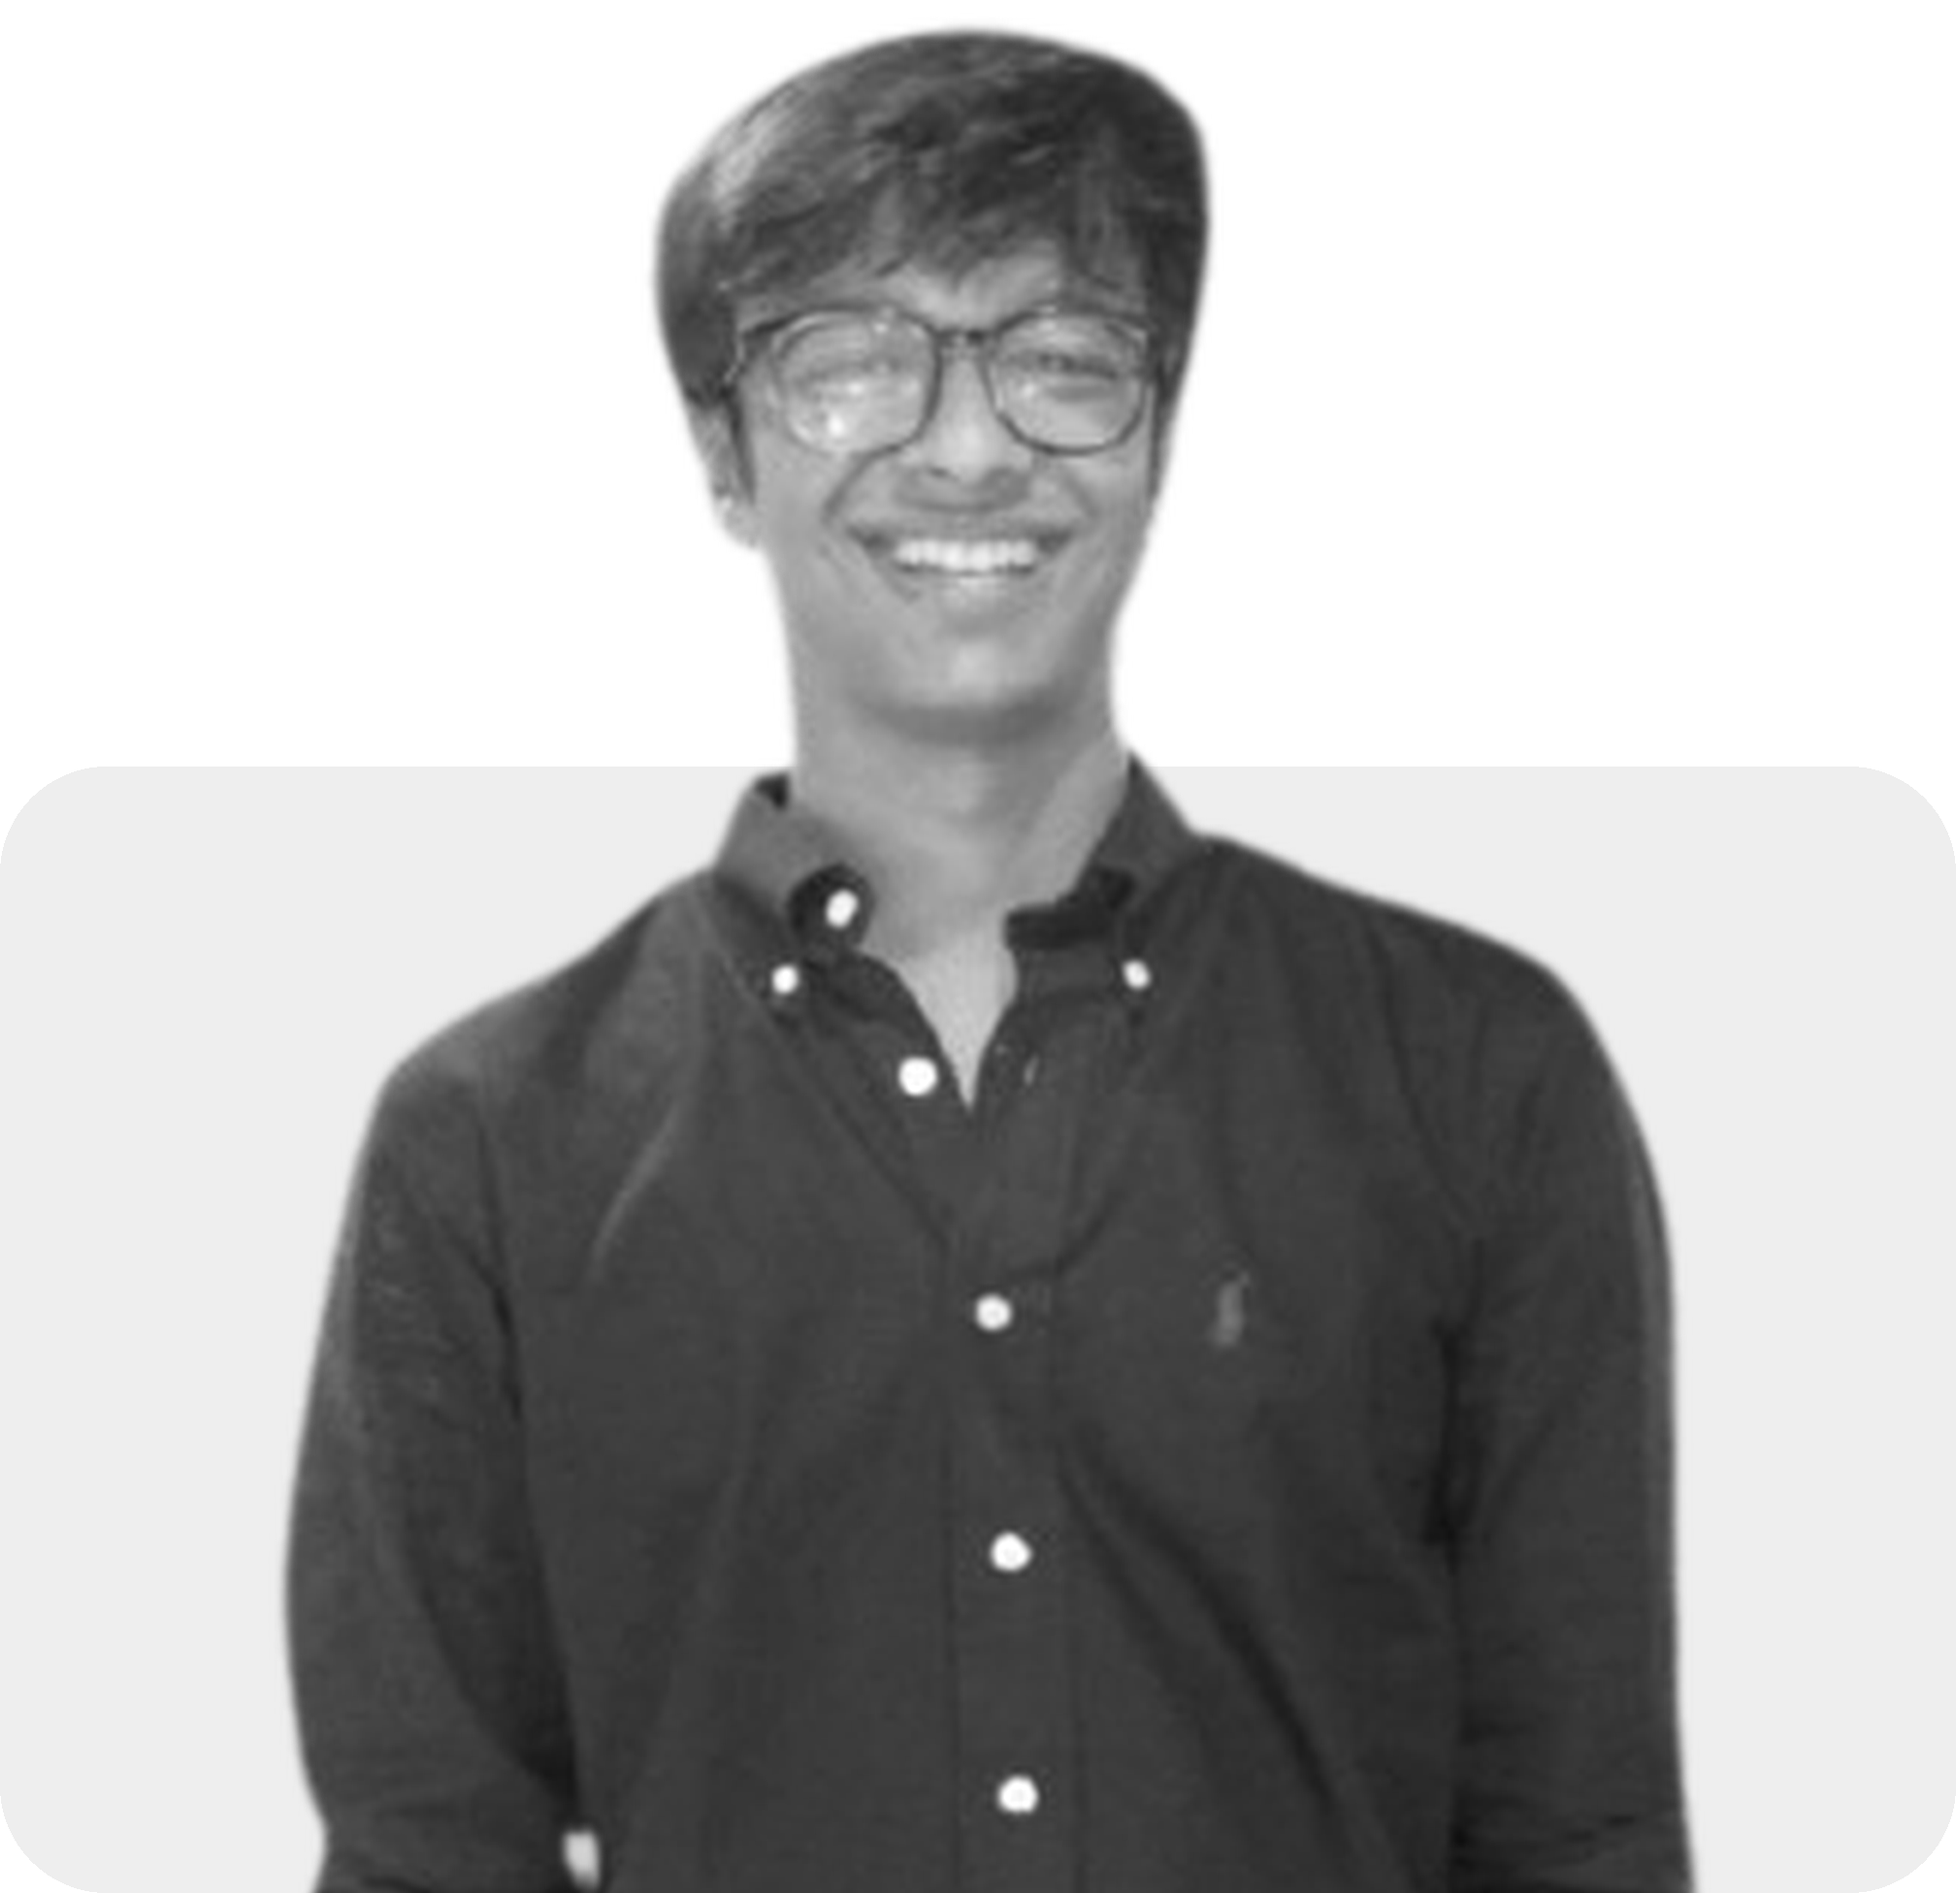
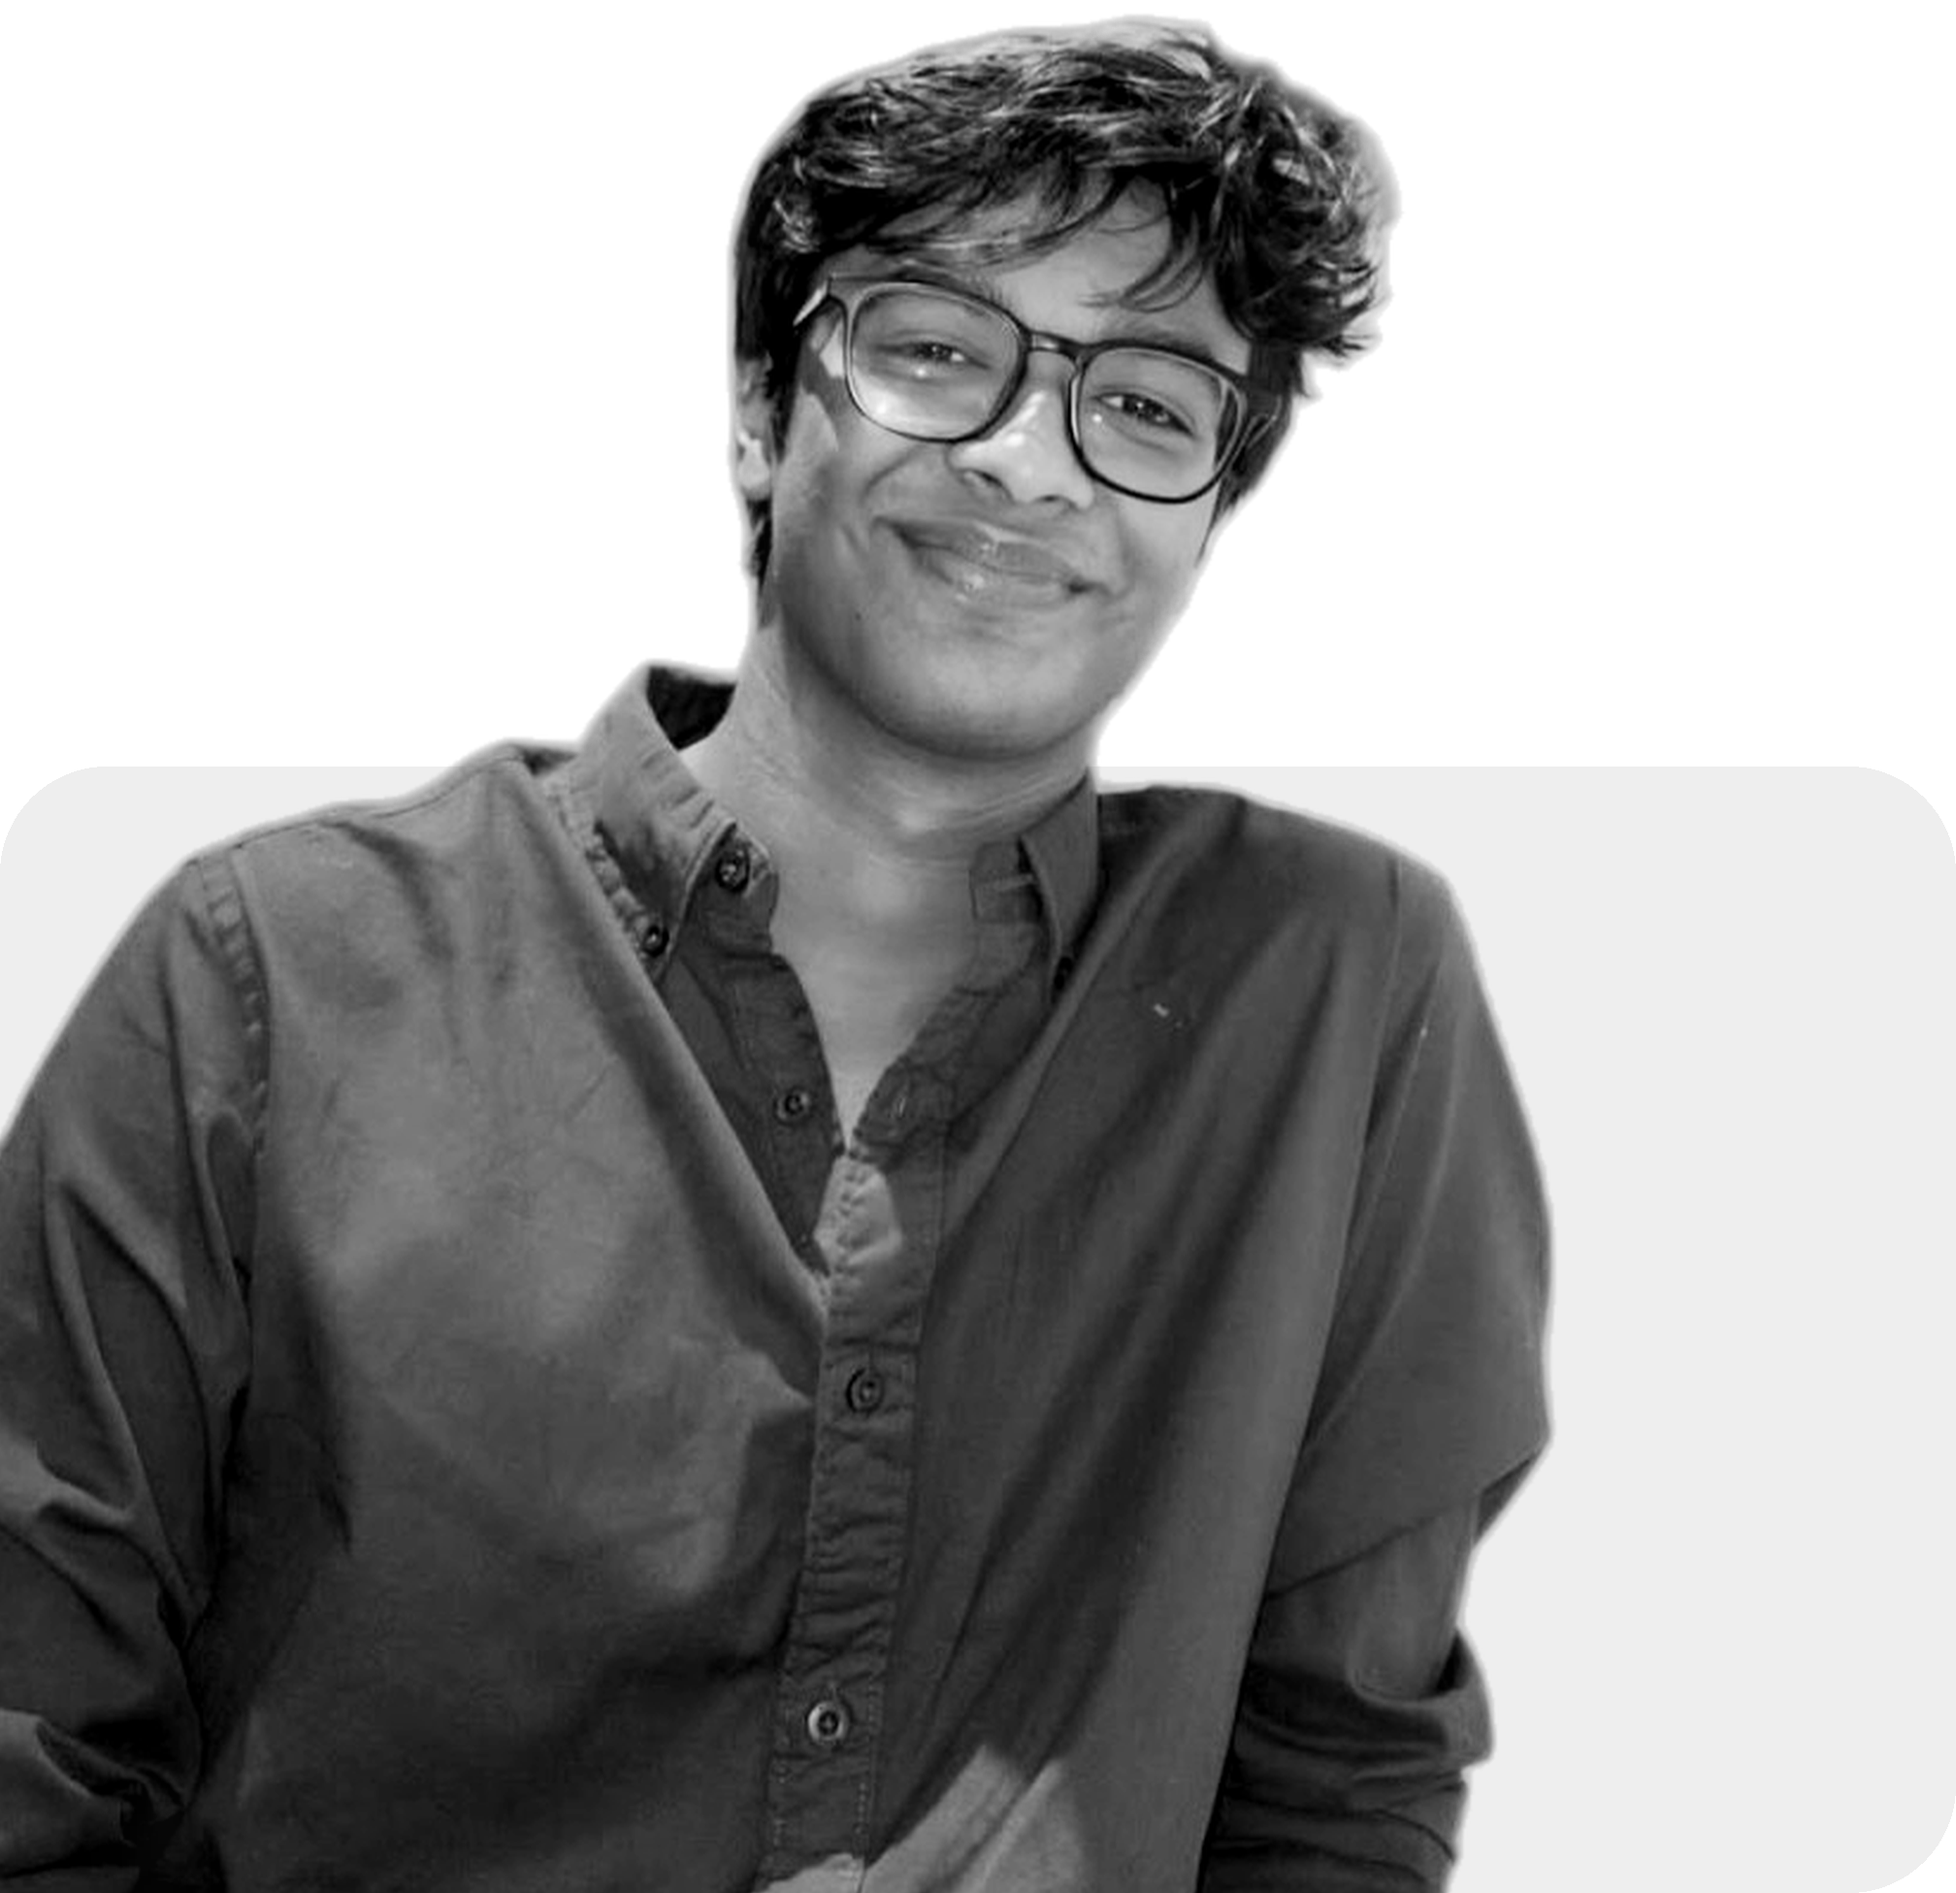
Add Siddharth Dialani and seat the two analysts together on the team grid.

diff --git a/index.html b/index.html
@@ -191,6 +191,15 @@
 								</a>
 							</div>
 							<div>
+								<a href="#teambio-09" rel="modal:open">
+									<img src="images/director-siddharth-img@3x.png" type="image/png" alt="Siddharth Dialani" width="160px" />
+									<div class="founder-text">
+										<h3>Siddharth Dialani</h3>
+										<span>Director of Portfolio Support</span>
+									</div>
+								</a>
+							</div>
+							<div>
 								<a href="#teambio-07" rel="modal:open">
 									<img src="images/analyst-aarjav-img@3x.png" type="image/png" alt="Aarjav Shah" width="160px" />
 									<div class="founder-text">
@@ -566,9 +575,25 @@
 					<img src="images/analyst-aditya2-img@3x.png" type="image/png" alt="Aditya Singh" width="160px" />
 					<h3>Aditya Singh</h3>
 					<span class="designation">Analyst</span>
+					<ul class="social-icon">
+						<li><a href="https://x.com/slightly_aditya" target="_blank" aria-label="Aditya Singh on X (Twitter)"><img src="images/icon-twitter-circle.svg" alt="" /></a></li>
+					</ul>
 					<p>Aditya joined All In Capital in 2026, where he focuses on investments in deeptech, with a particular fascination for space and rockets. Prior to All In, he worked with the M&amp;A team at Hexa (I Squared Capital) and was a Student Investment Partner at Campus Fund, where he did a deal in space-tech photonics.</p>
 					<p>He holds a degree in Electronics from BITS Pilani. During his time at BITS, he conducted research across the Electronics &amp; Math departments, exploring memristive memory devices and financial mathematics. His academic work also included an optimization-focused thesis applying mathematical modelling to renewable energy project financing. He also worked as a Quantitative Research Consultant at WorldQuant.</p>
 					<p>Outside of work, he enjoys shitposting on Twitter, following football as a lifelong Real Madrid fan, and admiring pretty much anything produced by A24. You can reach him at <a href="mailto:adityasingh2@allincapital.vc">adityasingh2@allincapital.vc</a>!</p>
+				</div>
+				<a href="#" rel="modal:close" class="close-icon" aria-label="Close dialog"><img src="images/icon-close.svg" alt="" /></a>
+			</div>
+		</div>
+
+		<div id="teambio-09">
+			<div class="team-bio-popup">
+				<div class="popup">
+					<img src="images/director-siddharth-img@3x.png" type="image/png" alt="Siddharth Dialani" width="160px" />
+					<h3>Siddharth Dialani</h3>
+					<span class="designation">Director of Portfolio Support</span>
+					<p>Siddharth is Director of Portfolio Support at All In Capital. He is a graduate of IIT Madras (2015 batch), with a B.Tech and M.Tech in Biotechnology, a Forbes 30 Under 30 honoree, and the founder of Bharat Agri.</p>
+					<p>During 2014-15, he got interested in the nation's growth story and wanted to contribute to the country's economic development. The fact that agriculture is not only the largest industry in India in terms of the population it employs, but also the weakest link, got him excited about building Bharat Agri.</p>
 				</div>
 				<a href="#" rel="modal:close" class="close-icon" aria-label="Close dialog"><img src="images/icon-close.svg" alt="" /></a>
 			</div>
